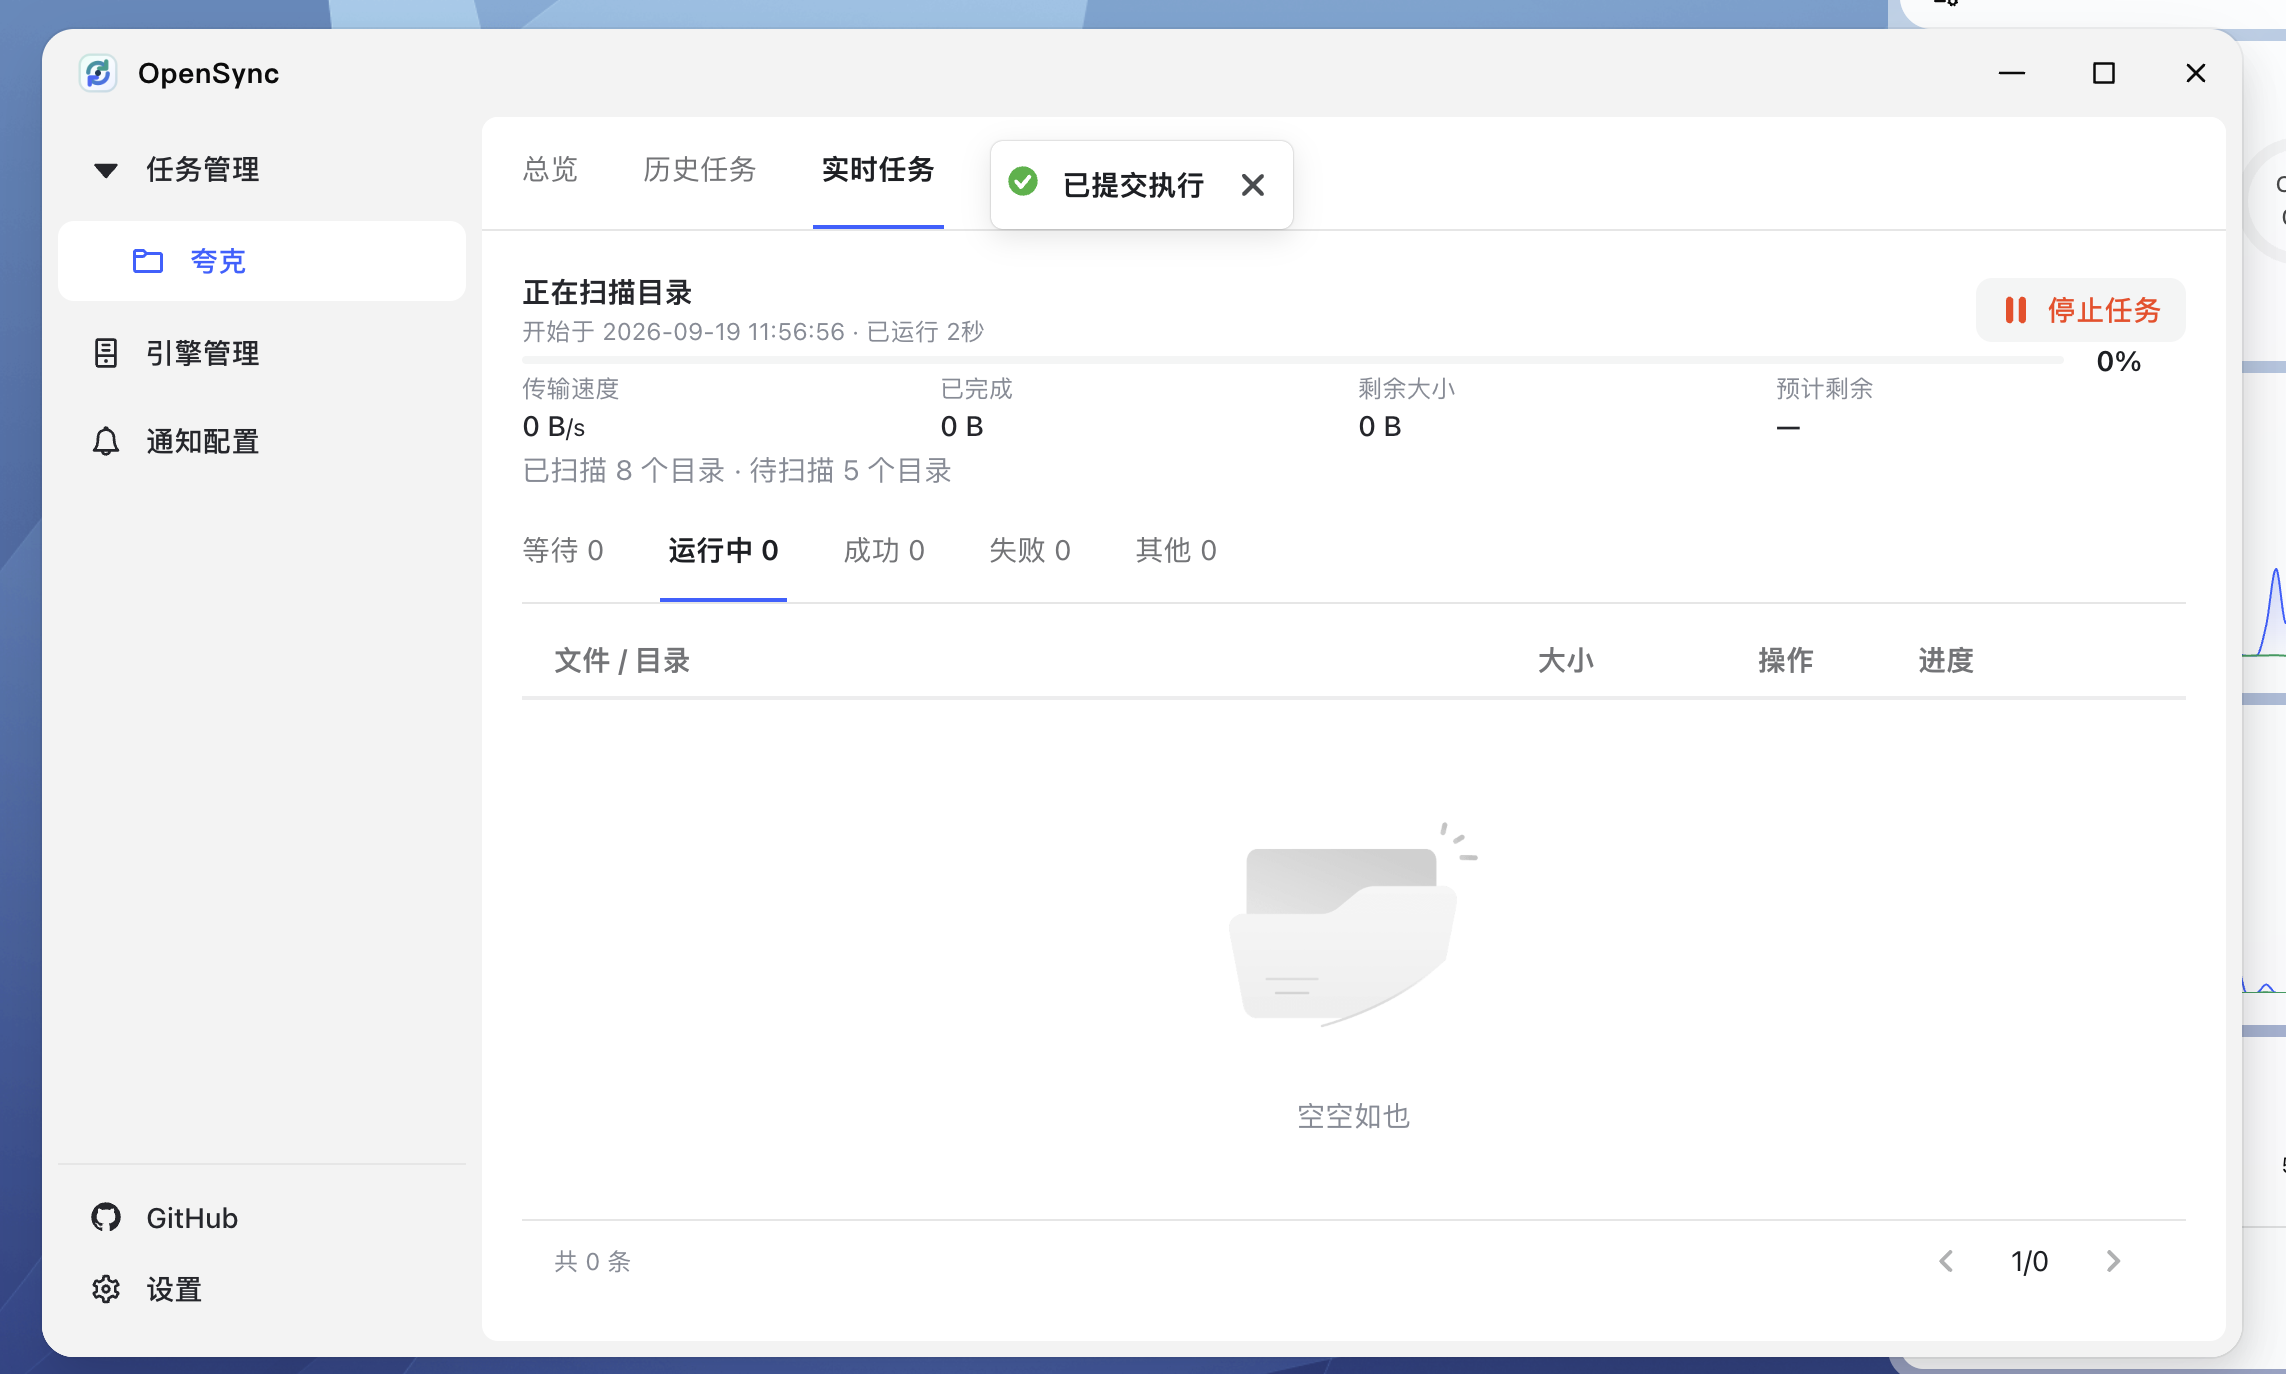
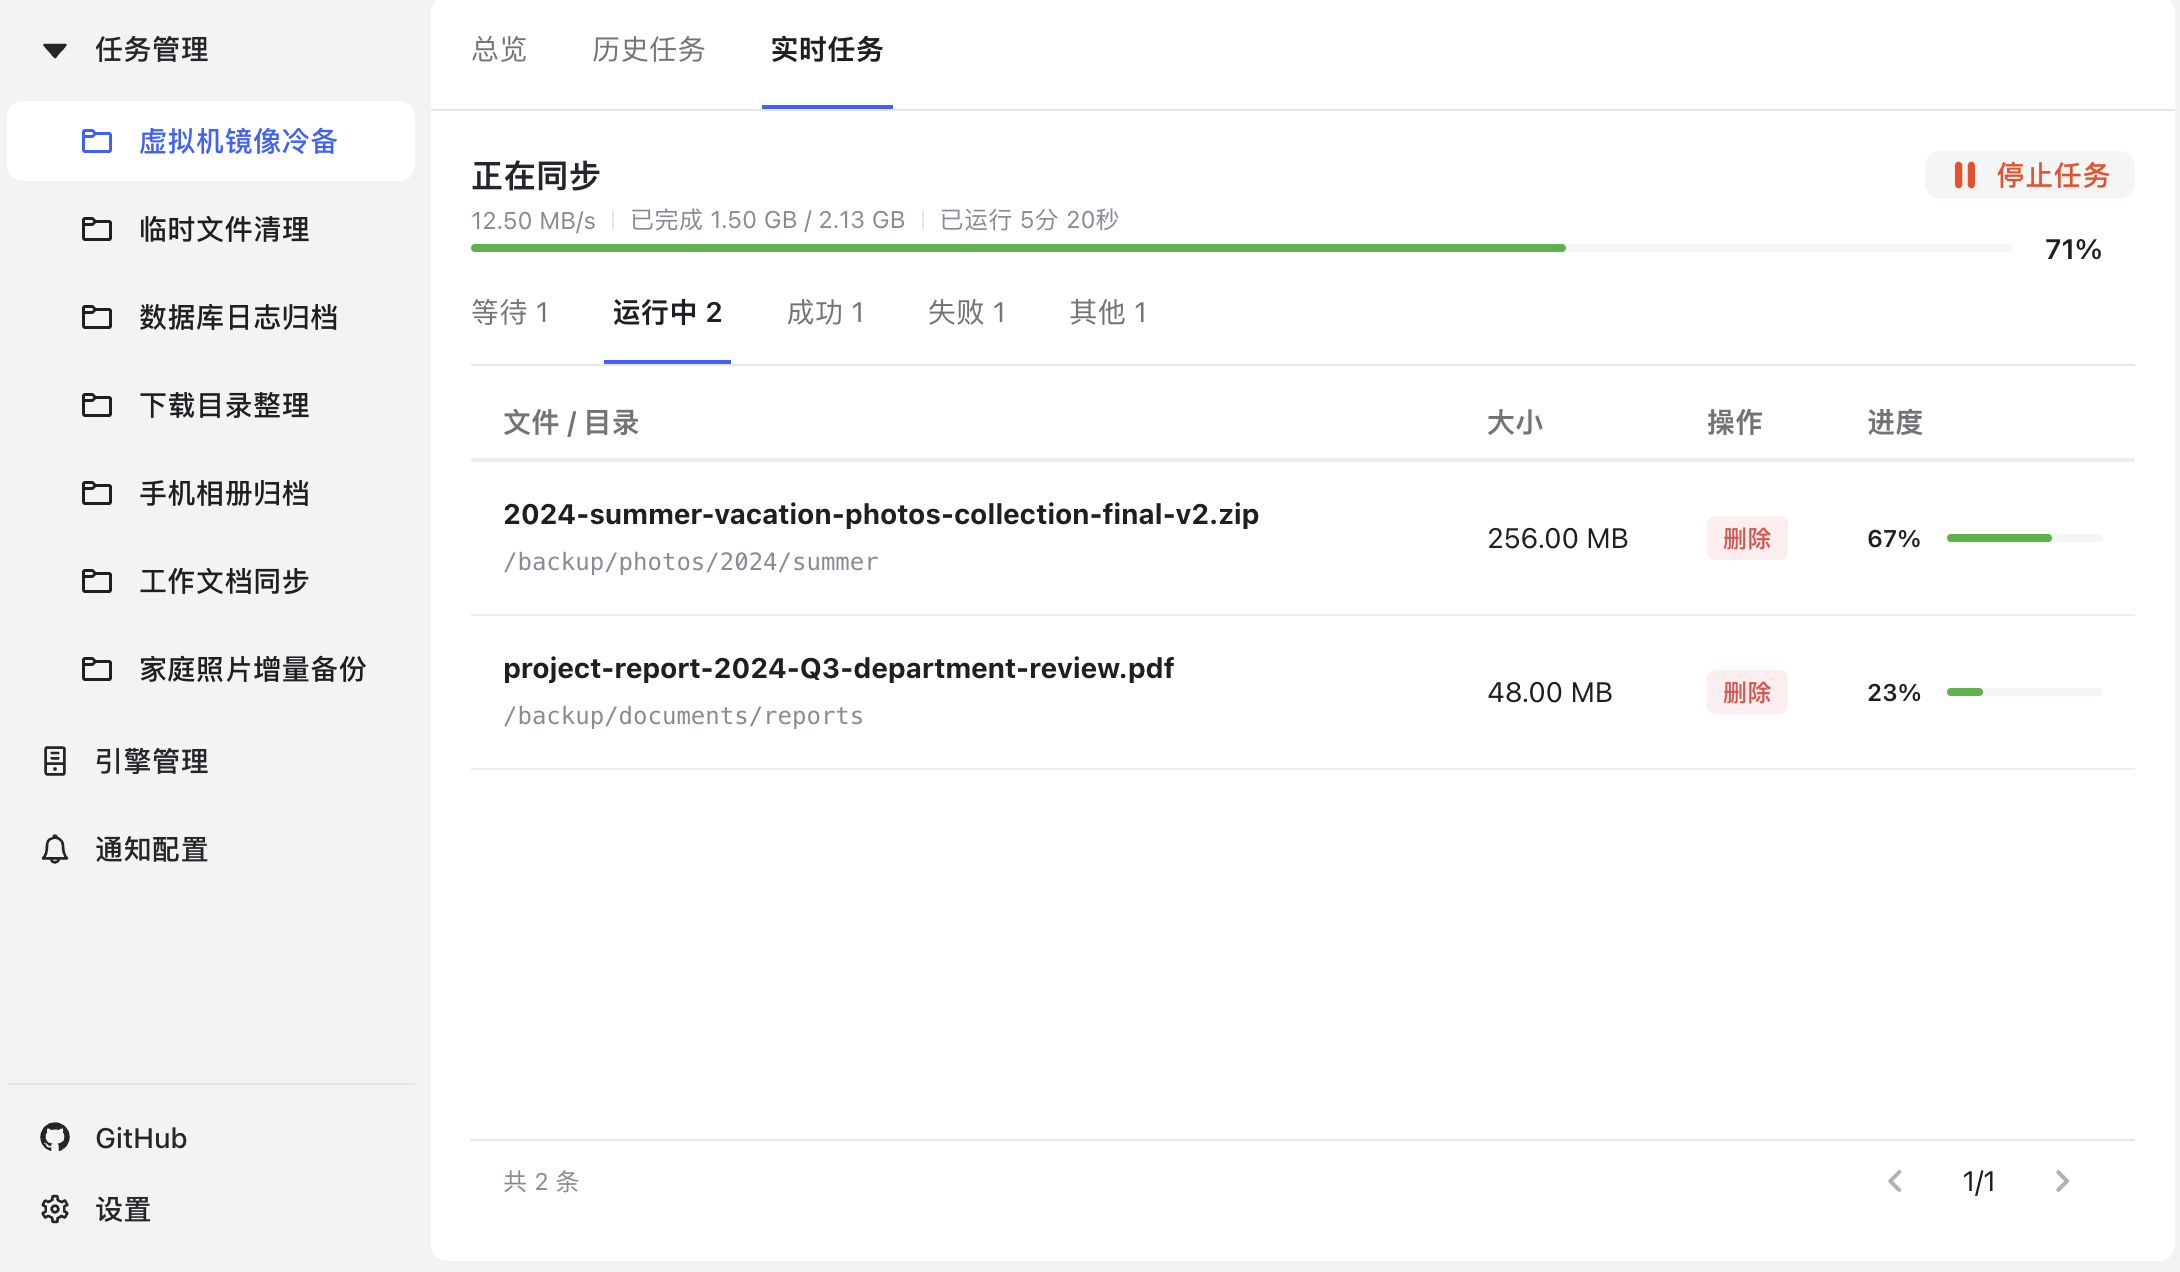
v0.0.6：实时任务页面样式优化
- 指标区从四格网格改为紧凑单行展示，减少顶部纵向占用
- 修复文字大小不统一：标题用 section-title token，指标值用 metric token
- 进度条移至指标行下方，避免与停止按钮拥挤
- 删除剩余时间显示，合并已完成/总大小
- 更新实时任务截图

AI-Coding: true
AI-Tool: TophantAI

diff --git a/frontend/src/pages/TaskExecution.tsx b/frontend/src/pages/TaskExecution.tsx
@@ -144,15 +144,10 @@ export function Realtime({ jobId }: { jobId: number }) {
     <div className="execution-view flex-column">
       <div className="execution-top">
       <div className="execution-header">
-        <div>
-          <h2>{task.scanFinish ? "正在同步" : "正在扫描目录"}</h2>
-          <span className="muted">
-            开始于 {time(task.createTime)} · 已运行{" "}
-            {formatDuration(task.duration)}
-          </span>
-        </div>
+        <h2>{task.scanFinish ? "正在同步" : "正在扫描目录"}</h2>
         <Button
           type="danger"
+          size="small"
           icon={<IconPause aria-hidden="true" />}
           onClick={stop}
           disabled={action.busy}
@@ -160,32 +155,14 @@ export function Realtime({ jobId }: { jobId: number }) {
           停止任务
         </Button>
       </div>
-      <Progress percent={Math.round(percent)} showInfo strokeColor="var(--accent)" />
       <div className="execution-metrics">
-        <div>
-          <span>传输速度</span>
-          <strong>
-            {formatSize(task.speed)}
-            <small>/s</small>
-          </strong>
-        </div>
-        <div>
-          <span>已完成</span>
-          <strong>{formatSize(task.doneSize)}</strong>
-        </div>
-        <div>
-          <span>剩余大小</span>
-          <strong>{formatSize(task.remainSize)}</strong>
-        </div>
-        <div>
-          <span>预计剩余</span>
-          <strong>
-            {task.remainTime > 0
-              ? formatDuration(task.remainTime)
-              : "—"}
-          </strong>
-        </div>
+        <span>{formatSize(task.speed)}/s</span>
+        <span className="metric-sep" />
+        <span>已完成 {formatSize(task.doneSize)} / {formatSize(task.doneSize + task.remainSize)}</span>
+        <span className="metric-sep" />
+        <span>已运行 {formatDuration(task.duration)}</span>
       </div>
+      <Progress percent={Math.round(percent)} showInfo strokeColor="var(--accent)" />
       {!task.scanFinish && task.scan && (
         <div className="scan-status">
           已扫描 {task.scan.scannedDirs} 个目录 · 待扫描{" "}

diff --git a/frontend/src/styles.css b/frontend/src/styles.css
@@ -755,36 +755,29 @@ body .semi-modal-mask {
   gap: 8px;
   justify-content: space-between;
   align-items: center;
-  margin-bottom: 4px;
 }
 .execution-header h2 {
-  font-size: 14px;
+  font-size: var(--font-size-section-title);
 }
 .execution-metrics {
-  display: grid;
-  grid-template-columns: repeat(4, minmax(0, 1fr));
-  gap: 4px;
-  margin: 4px 0;
-}
-.execution-metrics > div {
-  display: grid;
-  gap: 2px;
-}
-.execution-metrics span {
+  display: flex;
+  flex-wrap: wrap;
+  align-items: center;
+  gap: 4px 0;
   color: var(--muted);
   font-size: var(--font-size-small);
+  margin: 2px 0 4px;
 }
-.execution-metrics strong {
-  font-size: 14px;
-  font-weight: 500;
-  overflow-wrap: anywhere;
-}
-.execution-metrics small {
-  font-size: var(--font-size-small);
-  font-weight: 400;
+.metric-sep {
+  display: inline-block;
+  width: 1px;
+  height: 10px;
+  background: var(--line);
+  margin: 0 8px;
 }
 .scan-status {
   color: var(--muted);
+  font-size: var(--font-size-small);
   margin-bottom: 4px;
 }
 .filter-bar {
@@ -1151,10 +1144,6 @@ body .semi-modal-mask {
     flex-wrap: wrap;
     gap: 8px;
   }
-  .execution-metrics {
-    grid-template-columns: repeat(2, minmax(0, 1fr));
-    row-gap: 8px;
-  }
   .desktop-data {
     display: none;
   }
@@ -1247,6 +1236,10 @@ body .semi-modal-mask {
 .execution-tabs .semi-tabs-bar {
   border-bottom: 1px solid var(--line) !important;
   background-color: transparent !important;
+}
+.execution-tabs .semi-tabs-tab {
+  font-size: var(--font-size-body);
+  font-weight: 500;
 }
 .execution-tabs .semi-tabs-bar-line {
   background-color: transparent !important;
